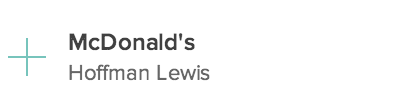
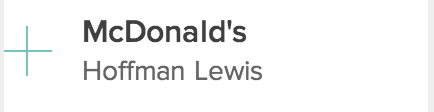
card nameplate

Changed region(s): [[0.0, 0.1636, 0.5825, 0.6818], [0.1456, 0.5182, 0.6117, 0.7364]]

diff --git a/proto/css/main.css b/proto/css/main.css
@@ -858,6 +858,42 @@ h1, h2, h3, h4, h5, h6 {
     vertical-align: middle;
     text-align: right; }
 
+/* line 1, ../sass/partials/card-nameplate.scss */
+.card-nameplate {
+  line-height: 1.25;
+  padding-left: 2.5em;
+  position: relative; }
+  /* line 9, ../sass/partials/card-nameplate.scss */
+  .card-nameplate h1 {
+    font-size: 1em;
+    font-weight: 600;
+    margin: 0; }
+  /* line 14, ../sass/partials/card-nameplate.scss */
+  .card-nameplate p {
+    font-size: 0.9em;
+    margin: 0;
+    color: #555555; }
+  /* line 19, ../sass/partials/card-nameplate.scss */
+  .card-nameplate h1:before {
+    content: '';
+    display: inline-block;
+    border-bottom: 1px solid #77c4bc;
+    width: 1.5em;
+    height: 0;
+    position: absolute;
+    top: 50%;
+    left: 0; }
+  /* line 29, ../sass/partials/card-nameplate.scss */
+  .card-nameplate h1:after {
+    content: '';
+    display: inline-block;
+    border-right: 1px solid #77c4bc;
+    width: 0.75em;
+    height: 1.5em;
+    position: absolute;
+    left: 0;
+    top: 0.4375em; }
+
 /* line 1, ../sass/partials/modules.scss */
 body {
   padding: 2em; }

diff --git a/proto/sass/partials/card-nameplate.scss b/proto/sass/partials/card-nameplate.scss
@@ -1,0 +1,39 @@
+.card-nameplate {
+
+  $plus-width: 1.5em;
+
+  //border: 1px solid blue;
+  line-height: 1.25;
+  padding-left: 2.5em;
+  position: relative;
+  h1{ 
+    font-size: 1em;
+    font-weight: 600;
+    margin: 0;
+  }
+  p {
+    font-size: 0.9em;
+    margin: 0;
+    color: $color-gray-darker;
+  }
+  h1:before {
+    content: '';
+    display: inline-block;
+    border-bottom: 1px solid $color-teal;
+    width: $plus-width;
+    height: 0;
+    position: absolute;
+    top: 50%;
+    left: 0;
+  }
+  h1:after {
+    content: '';
+    display: inline-block;
+    border-right: 1px solid $color-teal;
+    width: $plus-width/2;
+    height: $plus-width;
+    position: absolute;
+    left: 0;
+    top: (38/16 * 1em - $plus-width)/2;
+  }
+}

diff --git a/proto/sass/main.scss b/proto/sass/main.scss
@@ -16,6 +16,7 @@
 // Modules
 @import "partials/main-nav";
 @import "partials/page-header";
+@import "partials/card-nameplate";
 
 // Pages
 @import "partials/modules";
